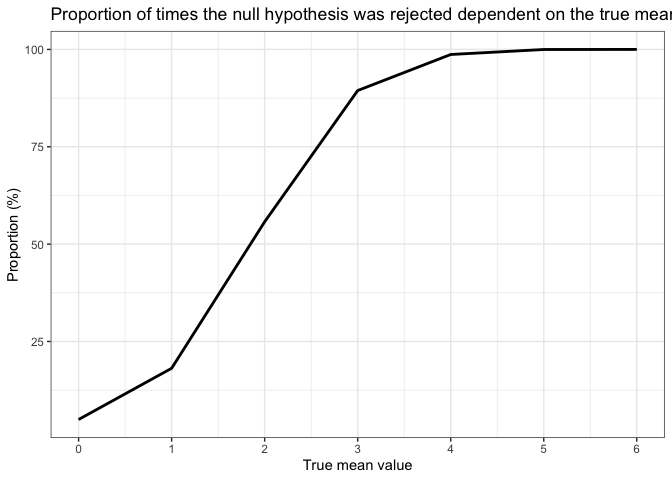
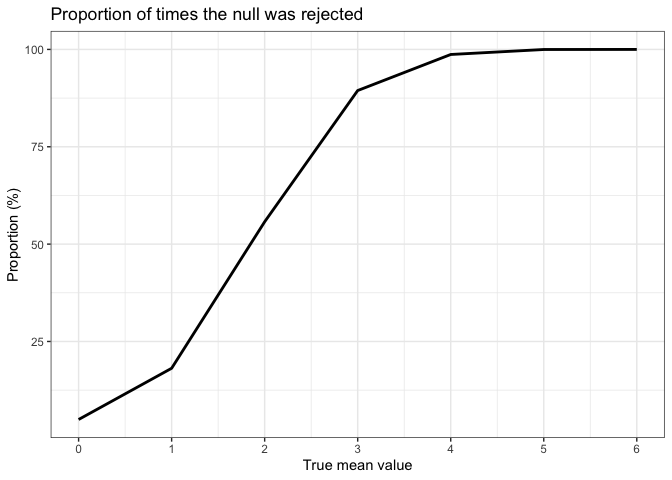
cleaned up the markdown with comments

Changed region(s): [[0.375, 0.0, 1.0, 0.0625]]

diff --git a/p8105_hw5_ak4598.md b/p8105_hw5_ak4598.md
@@ -7,9 +7,6 @@ Aleya Khalifa
 
 ## Problem 2.1 Create a tidy dataframe
 
-Create a tidy dataframe containing data from all participants, including
-the subject ID, arm, and observations over time.
-
 Create a dataframe containing all file names.
 
 ``` r
@@ -17,7 +14,7 @@ filenames <- list.files(path = "data/")
 ```
 
 Iterate over file names and read in data for each subject using
-`purrr::map` and saving the result as a new variable in the dataframe.
+`purrr::map` and save the result as a new variable.
 
 ``` r
 df <- purrr::map(filenames, ~read_csv(file.path("data/", .))) %>%
@@ -25,10 +22,9 @@ df <- purrr::map(filenames, ~read_csv(file.path("data/", .))) %>%
   rowid_to_column()
 ```
 
-Tidy the result; manipulate file names to include control arm and
-subject ID, make sure weekly observations are “tidy”, and do any other
-tidying that’s necessary. This includes creating a long format dataset
-so that values can be plotted over time in the following plot.
+Tidy the results to include control arm and subject ID. Create a long
+format dataset so that values can be plotted over time in the following
+plot.
 
 ``` r
 df <- df %>%
@@ -48,8 +44,7 @@ df <- df %>%
 
 ## Problem 2.2 Plot
 
-Make a spaghetti plot showing observations on each subject over time,
-and comment on differences between groups.
+Make a spaghetti plot showing observations on each subject over time.
 
 ``` r
 ggplot(df, aes(x = week, y = values, group = id)) + 
@@ -64,17 +59,14 @@ ggplot(df, aes(x = week, y = values, group = id)) +
 
 ![](p8105_hw5_ak4598_files/figure-gfm/plot_2_2-1.png)<!-- -->
 
+Individuals in the experimental arm were more likely to have increases
+in their value over time. Individuals in the control arm stayed roughly
+the same.
+
 # Problem 3
 
-When designing an experiment or analysis, a common question is whether
-it is likely that a true effect will be detected – put differently,
-whether a false null hypothesis will be rejected. The probability that a
-false null hypothesis is rejected is referred to as power, and it
-depends on several factors, including: the sample size; the effect size;
-and the error variance. In this problem, I will simulate data to explore
-power in a one-sample t-test.
-
-Before beginning, set the seed so results are reproducible.
+In this problem, I will simulate data to explore power in a one-sample
+t-test. Before beginning, I set the seed so results are reproducible.
 
 ``` r
 set.seed(1)
@@ -159,7 +151,7 @@ sim_results %>%
     reject_prop = reject_h0/5000*100) %>%
   ggplot(aes(x = mean_df, y = reject_prop)) + 
   geom_line(linewidth = 1) + 
-  labs(title = str_wrap("Proportion of times the null hypothesis was rejected dependent on the true mean"),
+  labs(title = "Proportion of times the null was rejected",
        x = "True mean value",
        y = "Proportion (%)") + 
   scale_x_continuous(breaks = seq(0, 6, 1)) + 
@@ -170,9 +162,38 @@ sim_results %>%
 
 ## Problem 3.3 Plot
 
-Make a plot showing the average estimate of μ̂ on the y axis and the true
-value of μ on the x axis. Make a second plot (or overlay on the first)
-the average estimate of μ̂ only in samples for which the null was
-rejected on the y axis and the true value of μ on the x axis. Is the
-sample average of μ̂ across tests for which the null is rejected
-approximately equal to the true value of μ? Why or why not?
+This plot shows the average estimate of μ̂ on the y axis and the true
+value of μ on the x axis, for all samples and in red, just the samples
+in which the null hypothesis was rejected.
+
+``` r
+avg_rejected <- sim_results %>%
+  filter(p.value < 0.05) %>%
+  group_by(mean_df) %>%
+  summarize(avg_estimate = mean(estimate))
+
+sim_results %>%
+  group_by(mean_df) %>%
+  summarize(avg_estimate = mean(estimate)) %>%
+  ggplot(aes(x = mean_df, y = avg_estimate)) + 
+  geom_line(linewidth = 1.5, alpha = 0.8) + 
+  geom_line(data = avg_rejected, color = "red", linewidth = 1.5, alpha = 0.8) + 
+  labs(title = "Sample vs. population mean",
+       x = "Population mean",
+       y = "Sample mean",
+       caption = "Red line = samples in which null hypothesis was rejected") + 
+  scale_x_continuous(breaks = seq(0, 6, 1)) + 
+  scale_y_continuous(breaks = seq(0, 6, 1)) + 
+  theme_bw()
+```
+
+![](p8105_hw5_ak4598_files/figure-gfm/plot%203_3-1.png)<!-- -->
+
+Across all samples, the sample average of the mean estimates is equal to
+the true mean value. However, among samples where the null hypothesis
+was rejected, those samples with true means between 0 and 4 do not have
+sample averages equal to the truth. These are most different around the
+true population mean of 1, at which mean the `rnorm` function may be
+more likely to create samples with an average estimate of about 2. This
+may be due to the small effect size, since the sample and population
+means were more similar at higher values of the mean.
